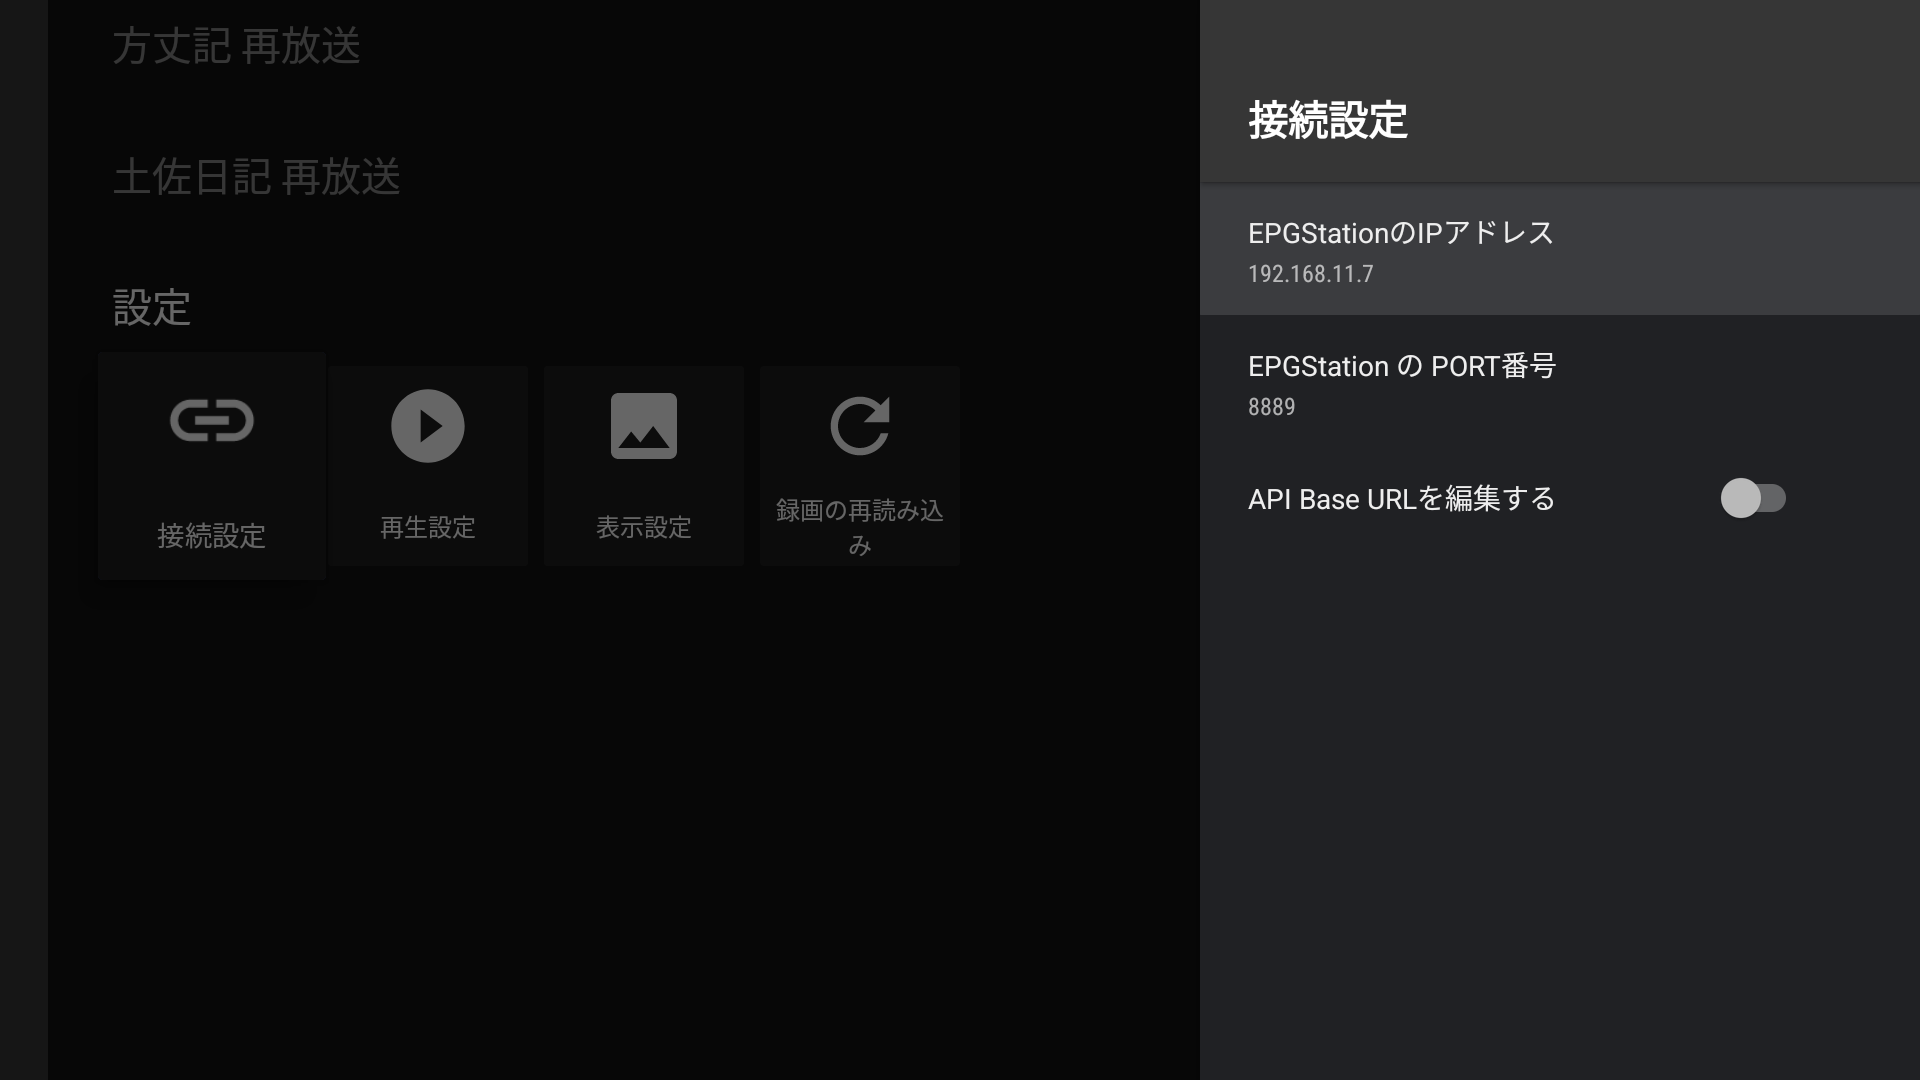
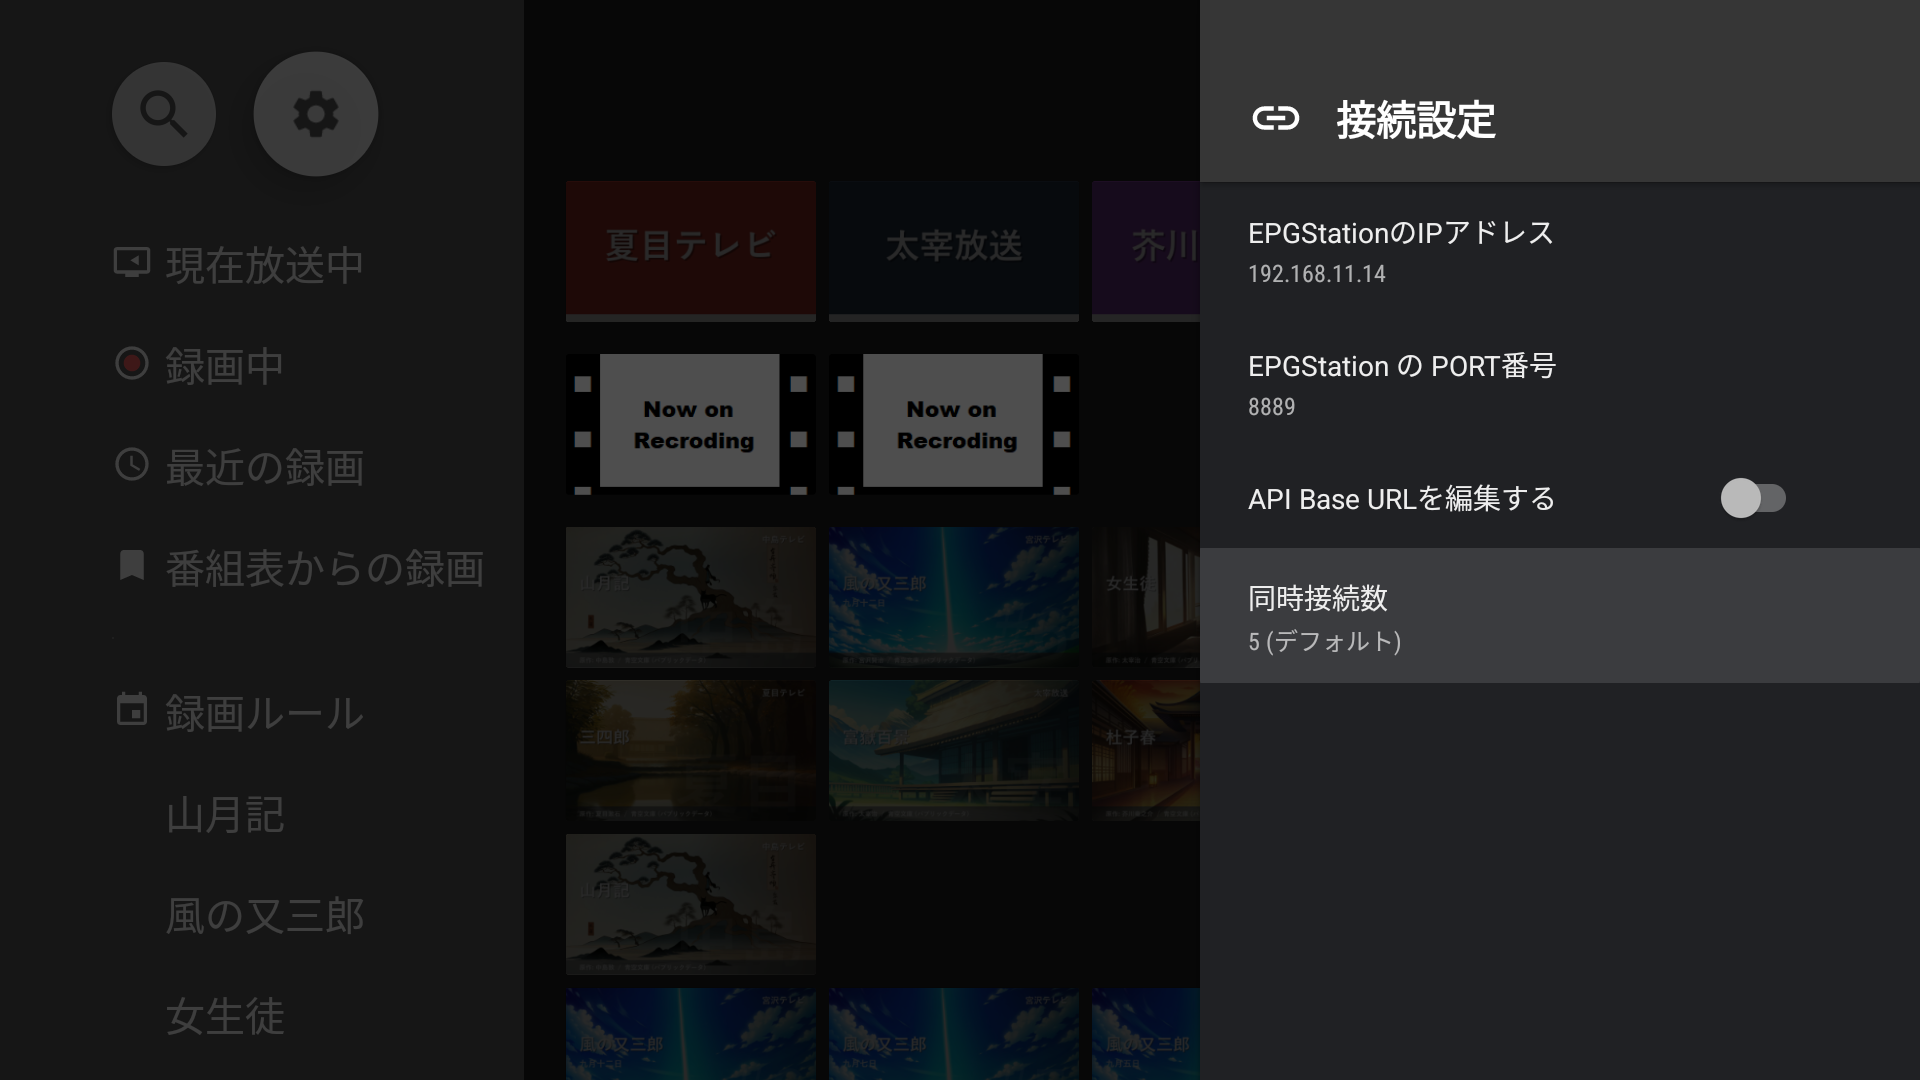
v1.41 以降の変更を操作マニュアルに反映する (#130)
* マニュアル用のスクリーンショットを撮り直し・追加する

接続設定と表示設定に増えた項目、放送局カードの長押しメニュー、
ライブ視聴中の選局、軽量化設定の2項目の画面を、モックに接続した
Google TV Streamer で撮った。

* v1.41 以降の変更をマニュアルに反映する

- 現在放送中: 番組がないサブチャンネルを並べないこと、長押しメニュー（HLSで再生・非表示）
- 内蔵プレーヤー: ライブ視聴中の ← → による選局（4.8節を新設）
- 設定: 同時接続数、非表示の放送局、軽量化設定（録画を後から読み込み・カード内容の短縮）
- アップデート: 設定行の廃止後に残っていた「カード」という書き方を直す

* README のアップデート手順を、歯車ボタンから開く操作に直す

* WIP.md を削除

---------

diff --git a/README.md b/README.md
@@ -51,7 +51,7 @@
 
 一度インストールしたあとは、アプリの中から更新できます。
 
-1. メイン画面の「設定」行にある **アップデートを確認** を選ぶ。
+1. メイン画面上部の歯車ボタンから設定画面を開き、**アップデートを確認** を選ぶ。
 2. GitHub へ接続してよいか確認が出るので **接続して確認** を選ぶ。
 3. 新しいバージョンがあればリリースノートが表示される。**更新する** を選ぶとダウンロードが始まる。
 4. ダウンロードが終わると端末のインストール確認画面が出るので、案内に従ってインストールする。
